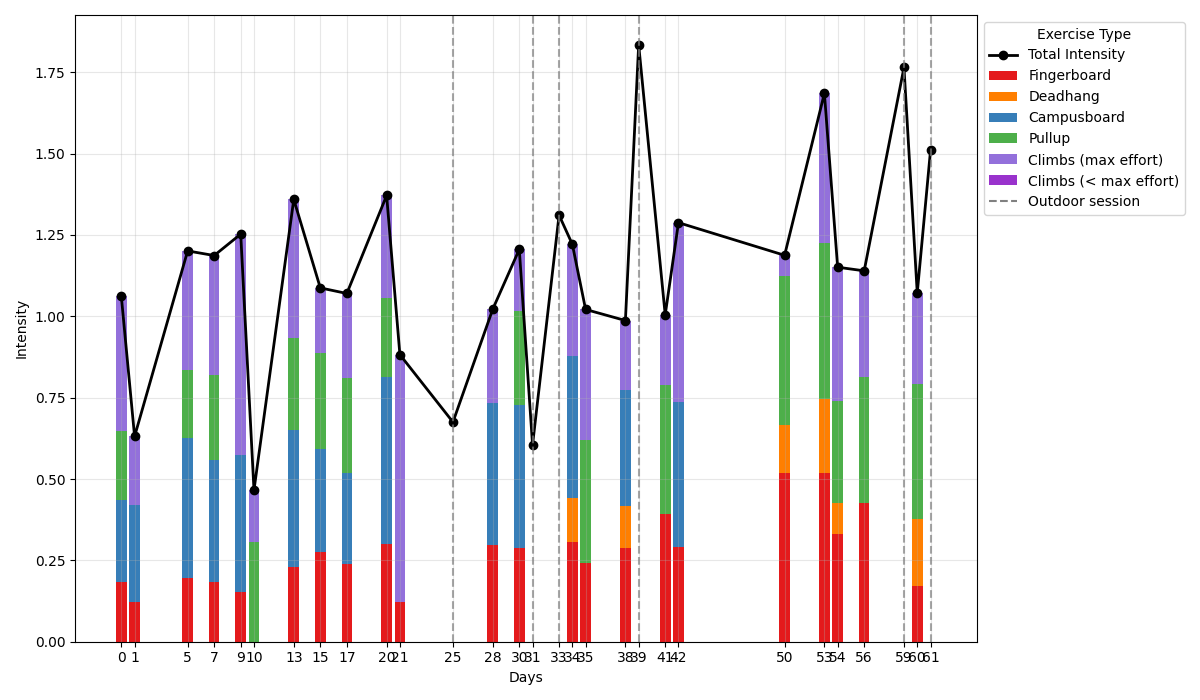
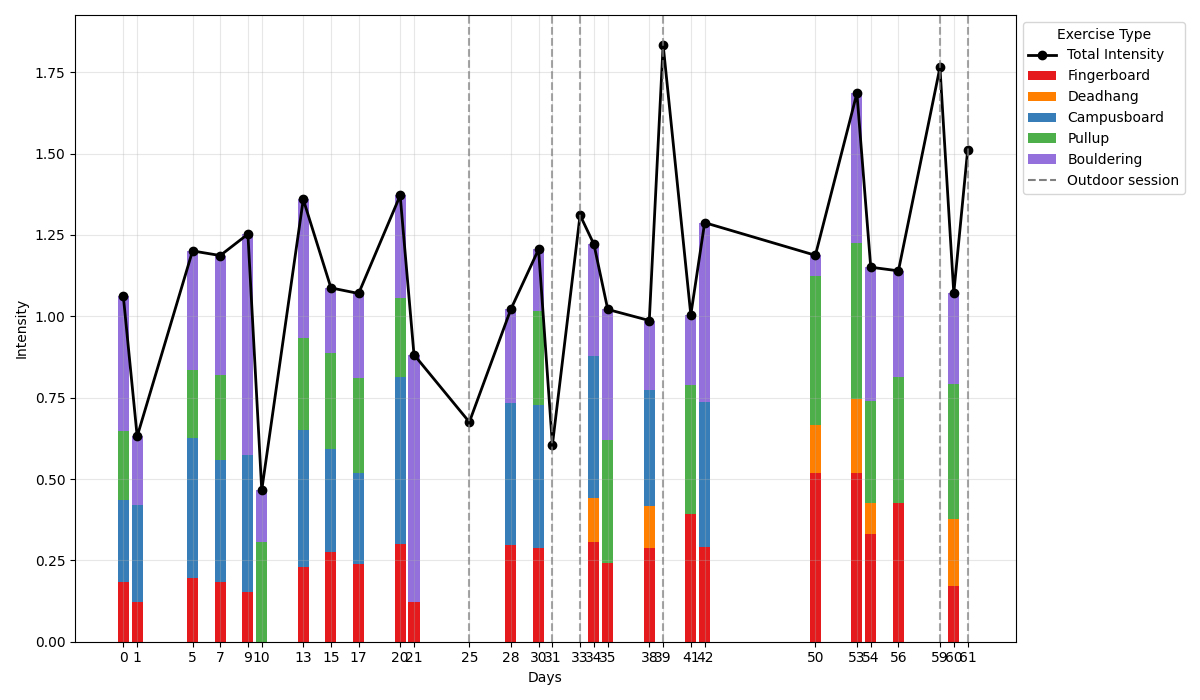
update plots

Changed region(s): [[0.0925, 0.03, 0.9867, 0.99]]

diff --git a/apps/weekly_intensity.py b/apps/weekly_intensity.py
@@ -47,7 +47,7 @@ for dt, data, is_out in sessions:
     if is_out:
         weekly[week_idx]['outdoor']    += br.get('outdoor',   0.0)
     else:
-        for key in ['fingerboard', 'deadhang', 'campusboard', 'pullup', 'project', 'outdoor', 'free_climbs']:
+        for key in ['fingerboard', 'deadhang', 'campusboard', 'pullup', 'project', 'outdoor']:
             weekly[week_idx][key] += br.get(key, 0.0)
 
 # Sort weeks
@@ -55,7 +55,7 @@ weeks = sorted(weekly.keys())
 x     = np.array(weeks)
 
 # Build arrays per exercise type
-types       = ['fingerboard', 'deadhang', 'campusboard', 'pullup', 'project', 'outdoor', 'free_climbs']
+types       = ['fingerboard', 'deadhang', 'campusboard', 'pullup', 'project', 'outdoor']
 data_arrays = {t: np.array([weekly[w].get(t, 0.0) for w in weeks]) for t in types}
 
 # Total intensity including outdoor-only
@@ -69,7 +69,6 @@ colors = {
     'project':     '#76448A',
     'outdoor':     '#AEB6BF',
     'deadhang':    '#D35400',
-    'free_climbs': '#9370DB'
 }
 
 # Plot stacked bars
@@ -78,9 +77,7 @@ bottom = np.zeros_like(x, dtype=float)
 for t in types:
     # custom labels for project and free_climbs
     if t == 'project':
-        lbl = 'Climbs (max effort)'
-    elif t == 'free_climbs':
-        lbl = 'Climbs (< max effort)'
+        lbl = 'Bouldering'
     else:
         lbl = t.capitalize()
 

diff --git a/apps/intensity.py b/apps/intensity.py
@@ -106,10 +106,10 @@ ax.bar(x_all, cb_arr,   bottom=bottom, color=colors["campusboard"], label="Campu
 bottom += cb_arr
 ax.bar(x_all, pu_arr,   bottom=bottom, color=colors["pullup"],     label="Pullup")
 bottom += pu_arr
-ax.bar(x_all, proj_arr, bottom=bottom, color=colors["project"],    label="Climbs (max effort)")
+ax.bar(x_all, proj_arr, bottom=bottom, color=colors["project"],    label="Bouldering")
 bottom += proj_arr
-ax.bar(x_all, fc_arr,   bottom=bottom, color=colors["free_climbs"],label="Climbs (< max effort)")
-bottom += fc_arr
+#ax.bar(x_all, fc_arr,   bottom=bottom, color=colors["free_climbs"],label="Climbs (< max effort)")
+#bottom += fc_arr
 
 # continuous total line through all points
 ax.plot(x_all, total_arr,
